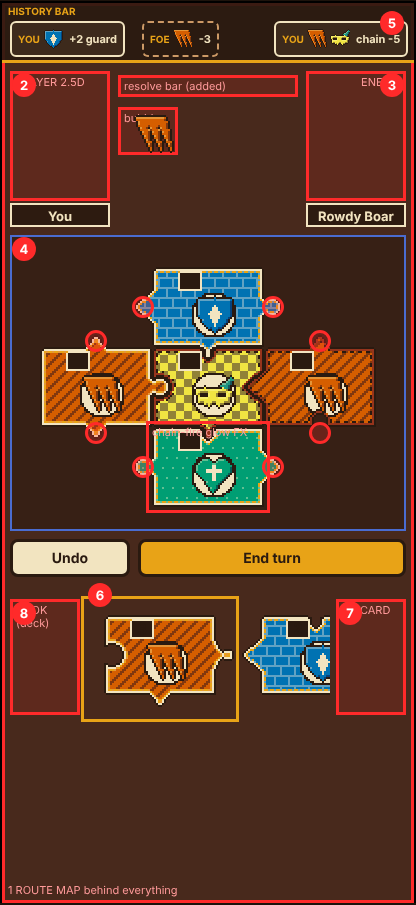
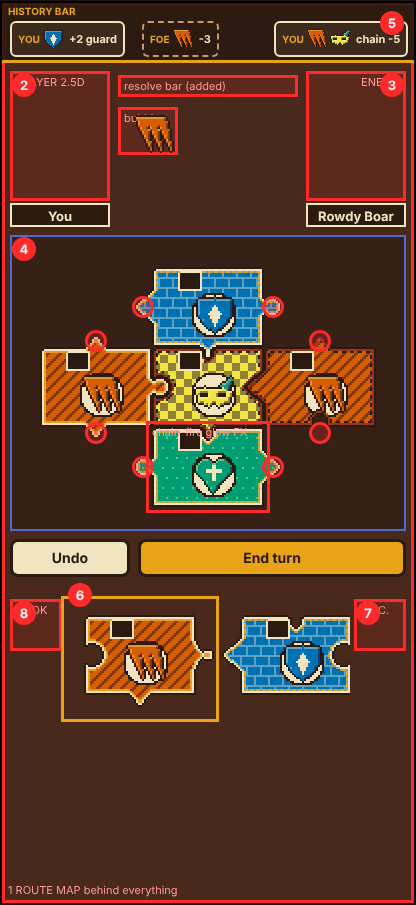
Puzzle combat layout: smaller deck and discard
Claude-Session: https://claude.ai/code/session_01PZZqg4onx9N7HoHfoA6Jxg

Changed region(s): [[0.0, 0.6188, 1.0, 0.8044]]

diff --git a/aseprite-source/pfight/layout/mockup2.html b/aseprite-source/pfight/layout/mockup2.html
@@ -49,10 +49,10 @@ h1,h2{margin:.4rem 0}.legend{display:flex;gap:1.5rem;align-items:center;margin:.
 <b class="n" style="left:254px;top:100px">4</b>
 <div class="btn alt" style="left:24px;top:396px;width:90px">Undo</div>
 <div class="btn" style="left:124px;top:396px;width:100px">End turn</div>
-<div class="ph" style="left:24px;top:450px;width:150px;height:150px;"><span>PUZZLE BOOK (deck) icon + count</span></div>
-<b class="n" style="left:28px;top:454px">8</b>
-<div class="ph" style="left:786px;top:450px;width:150px;height:150px;"><span>DISCARD pile icon + count</span></div>
-<b class="n" style="left:790px;top:454px">7</b>
+<div class="ph" style="left:24px;top:520px;width:80px;height:80px;"><span>BOOK (deck) 32x32 + count</span></div>
+<b class="n" style="left:26px;top:522px">8</b>
+<div class="ph" style="left:856px;top:520px;width:80px;height:80px;"><span>DISCARD 32x32 + count</span></div>
+<b class="n" style="left:858px;top:522px">7</b>
 <div class="lbl" style="left:290px;top:420px">HAND (swipe)</div>
 <img src="tray-demo-0.png" style="left:262px;top:442px;width:148px;height:104px;">
 <i class="val" style="left:306px;top:458px;width:24px;height:20px;line-height:20px">3</i>
@@ -90,16 +90,16 @@ h1,h2{margin:.4rem 0}.legend{display:flex;gap:1.5rem;align-items:center;margin:.
 <b class="n" style="left:10px;top:234px">4</b>
 <div class="btn alt" style="left:8px;top:536px;width:120px">Undo</div>
 <div class="btn" style="left:136px;top:536px;width:268px">End turn</div>
-<div class="ph" style="left:8px;top:596px;width:70px;height:116px;"><span>BOOK (deck)</span></div>
+<div class="ph" style="left:8px;top:596px;width:52px;height:52px;"><span>BOOK</span></div>
 <b class="n" style="left:10px;top:598px">8</b>
-<div class="ph" style="left:334px;top:596px;width:70px;height:116px;"><span>DISCARD</span></div>
-<b class="n" style="left:336px;top:598px">7</b>
-<div style="position:absolute;left:84px;top:596px;width:244px;height:130px;overflow:hidden"><div style="position:absolute;left:0;top:0;width:700px;height:130px"><img src="tray-demo-0.png" style="left:0px;top:4px;width:148px;height:104px;">
+<div class="ph" style="left:352px;top:596px;width:52px;height:52px;"><span>DISC.</span></div>
+<b class="n" style="left:354px;top:598px">7</b>
+<div style="position:absolute;left:64px;top:596px;width:284px;height:130px;overflow:hidden"><div style="position:absolute;left:0;top:0;width:700px;height:130px"><img src="tray-demo-0.png" style="left:0px;top:4px;width:148px;height:104px;">
 <i class="val" style="left:44px;top:20px;width:24px;height:20px;line-height:20px">3</i>
 <img src="tray-demo-1.png" style="left:156px;top:4px;width:148px;height:104px;">
 <i class="val" style="left:200px;top:20px;width:24px;height:20px;line-height:20px">2</i>
 <img src="tray-demo-2.png" style="left:312px;top:4px;width:148px;height:104px;">
 <i class="val" style="left:356px;top:20px;width:24px;height:20px;line-height:20px">1</i></div></div>
-<div class="sel" style="left:84px;top:598px;width:148px;height:116px"></div>
-<b class="n" style="left:86px;top:580px">6</b>
+<div class="sel" style="left:64px;top:598px;width:148px;height:116px"></div>
+<b class="n" style="left:66px;top:580px">6</b>
 </div>

diff --git a/aseprite-source/pfight/layout/make_mockup2.py b/aseprite-source/pfight/layout/make_mockup2.py
@@ -114,8 +114,8 @@ def wide():
     o.append(panel(250, 96, 460, 308, '', 'background:rgba(42,26,16,.55);border-color:#4a6cd0'))
     o.append(board(294, 118)); o.append(num(254, 100, 4))
     o.append(btn(24, 396, 90, 'Undo', True)); o.append(btn(124, 396, 100, 'End turn'))
-    o.append(ph(24, 450, 150, 150, 'PUZZLE BOOK (deck) icon + count', None)); o.append(num(28, 454, 8))
-    o.append(ph(786, 450, 150, 150, 'DISCARD pile icon + count', None)); o.append(num(790, 454, 7))
+    o.append(ph(24, 520, 80, 80, 'BOOK (deck) 32x32 + count', None)); o.append(num(26, 522, 8))
+    o.append(ph(856, 520, 80, 80, 'DISCARD 32x32 + count', None)); o.append(num(858, 522, 7))
     o.append('<div class="lbl" style="left:290px;top:420px">HAND (swipe)</div>')
     o.append(tray(262, 442)); o.append(num(256, 420, 6))
     o.append('<div class="sel" style="left:260px;top:448px;width:148px;height:116px"></div>')
@@ -138,10 +138,10 @@ def phone():
     o.append(panel(8, 232, 396, 296, '', 'background:rgba(42,26,16,.55);border-color:#4a6cd0'))
     o.append(board(20, 252)); o.append(num(10, 234, 4))
     o.append(btn(8, 536, 120, 'Undo', True)); o.append(btn(136, 536, 268, 'End turn'))
-    o.append(ph(8, 596, 70, 116, 'BOOK (deck)', None)); o.append(num(10, 598, 8))
-    o.append(ph(334, 596, 70, 116, 'DISCARD', None)); o.append(num(336, 598, 7))
-    o.append(f'<div style="position:absolute;left:84px;top:596px;width:244px;height:130px;overflow:hidden"><div style="position:absolute;left:0;top:0;width:700px;height:130px">{tray(0, 4)}</div></div>')
-    o.append('<div class="sel" style="left:84px;top:598px;width:148px;height:116px"></div>'); o.append(num(86, 580, 6))
+    o.append(ph(8, 596, 52, 52, 'BOOK', None)); o.append(num(10, 598, 8))
+    o.append(ph(352, 596, 52, 52, 'DISC.', None)); o.append(num(354, 598, 7))
+    o.append(f'<div style="position:absolute;left:64px;top:596px;width:284px;height:130px;overflow:hidden"><div style="position:absolute;left:0;top:0;width:700px;height:130px">{tray(0, 4)}</div></div>')
+    o.append('<div class="sel" style="left:64px;top:598px;width:148px;height:116px"></div>'); o.append(num(66, 580, 6))
     o.append('</div>')
     return '\n'.join(o)
 
